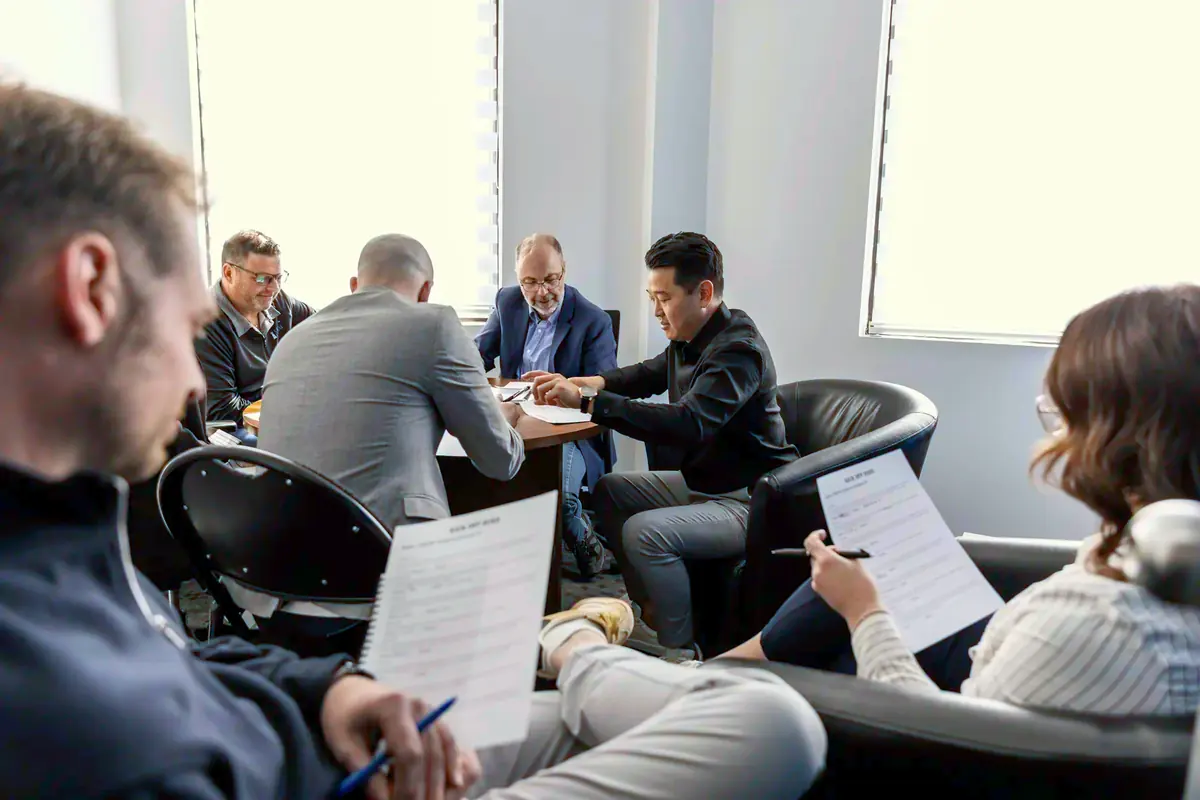
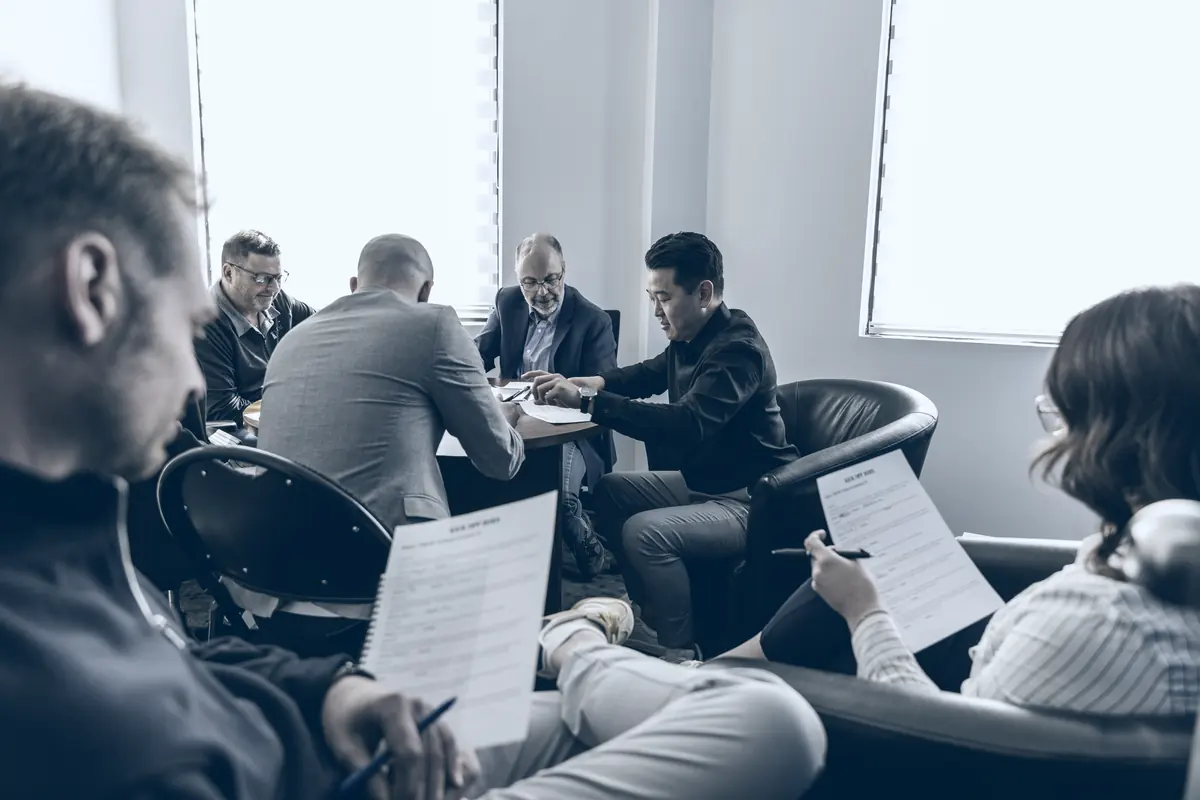
Limit the natural-color photo to the contact section.
The skyline behind the contact title is no longer duotone, and the navy wash is a neutral dark gradient. Every other photo and overlay matches main.

diff --git a/src/style.css b/src/style.css
@@ -139,7 +139,7 @@ h1,h2,h3,p,figure,blockquote{margin:0}
 .inter{position:relative;min-height:115vh;color:var(--white);display:flex;align-items:center;overflow:hidden;background:var(--navy)}
 .inter__media{position:absolute;inset:0}
 .inter__media img{width:100%;height:100%;object-fit:cover}
-.inter__media::after{content:"";position:absolute;inset:0;background:linear-gradient(90deg,rgba(14,16,18,.64) 0%,rgba(14,16,18,.3) 38%,rgba(14,16,18,0) 72%)}
+.inter__media::after{content:"";position:absolute;inset:0;background:linear-gradient(90deg,rgba(0,40,68,.9) 0%,rgba(0,52,89,.55) 55%,rgba(0,52,89,.2) 100%)}
 .inter__content{position:relative;z-index:2;display:flex;flex-direction:column;gap:28px}
 .inter__title{font-size:clamp(44px,7.4vw,140px);line-height:.95;letter-spacing:-.055em;font-weight:500;max-width:9ch}
 .inter__body{font-size:clamp(16px,1.25vw,20px);line-height:1.6;color:rgba(255,255,255,.8);max-width:44ch}

diff --git a/index.html b/index.html
@@ -271,7 +271,7 @@
   <!-- CTA -->
   <section class="cta" id="contact" data-section="dark">
     <div class="cta__media parallax" data-speed="0.18">
-      <img src="%BASE_URL%img/skyline-2400.webp" srcset="%BASE_URL%img/skyline-800.webp 800w, %BASE_URL%img/skyline-1400.webp 1400w, %BASE_URL%img/skyline-2400.webp 2400w" sizes="100vw" alt="" loading="lazy" />
+      <img src="%BASE_URL%img/skyline-2400.webp" alt="" loading="lazy" />
     </div>
     <canvas class="cta__lines" aria-hidden="true"></canvas>
     <div class="wrap cta__wrap">

diff --git a/tools/grade.py b/tools/grade.py
@@ -1,5 +1,4 @@
-# Hero city-night keeps the navy duotone.
-# Lower-page photos (facade, skyline, equipment, team) export in natural color.
+# Brand grading: navy duotone for stock, subtle cool grade for team photos.
 import numpy as np
 from PIL import Image, ImageFilter, ImageEnhance
 import os
@@ -12,6 +11,17 @@ def duotone(img, stops, contrast=1.0, gamma=1.0):
     out=np.zeros(a.shape+(3,),dtype=np.float32)
     for c in range(3): out[...,c]=np.interp(a,pos,cols[:,c])
     return Image.fromarray(out.astype(np.uint8))
+def grade(img, amt=0.55):
+    # desaturate partially and push shadows to navy, lift nothing
+    base=np.asarray(img.convert('RGB'),dtype=np.float32)
+    lum=(base@np.array([.2126,.7152,.0722]))[...,None]
+    des=base*0.3+lum*0.7
+    navy=hexrgb('#003459'); l=lum/255.
+    shadow=(1-l)**2.2
+    out=des*(1-shadow*amt)+navy*shadow*amt
+    out=out*np.array([0.96,0.99,1.03])
+    return Image.fromarray(np.clip(out,0,255).astype(np.uint8))
+NAVY=[(0,'#00111f'),(0.45,'#003459'),(0.8,'#2a86b8'),(1,'#d9eef8')]
 DEEP=[(0,'#000c17'),(0.5,'#002a48'),(0.85,'#0f6d9e'),(1,'#9fd6ee')]
 def save(im,name,widths=(2400,1400,800),q=74):
     for w in widths:
@@ -19,13 +29,13 @@ def save(im,name,widths=(2400,1400,800),q=74):
         r.save(f'{OUT}/{name}-{w}.webp','WEBP',quality=q,method=6)
 S='src-img'
 save(duotone(Image.open(f'{S}/px-15452183.jpg'),DEEP,contrast=1.25,gamma=1.1),'city-night')
-save(Image.open(f'{S}/px-35528879.jpg').convert('RGB'),'facade-v')
-save(Image.open(f'{S}/px-38633406.jpg').convert('RGB'),'skyline')
-save(Image.open(f'{S}/px-36522027.jpg').convert('RGB'),'equipment')
+save(duotone(Image.open(f'{S}/px-35528879.jpg'),NAVY,contrast=1.15),'facade-v')
+save(duotone(Image.open(f'{S}/px-38633406.jpg'),DEEP,contrast=1.1,gamma=1.2),'skyline')
+save(duotone(Image.open(f'{S}/px-36522027.jpg'),NAVY,contrast=1.2,gamma=1.05),'equipment')
 for n in (1,2,3,4):
-    im=Image.open(f'../uploads/versa-photo-{n}.jpg').convert('RGB')
-    save(im,f'team-{n}g',widths=(2000,1200,700),q=76)
-    save(im,f'team-{n}d',widths=(1400,800),q=74)
+    im=Image.open(f'../uploads/versa-photo-{n}.jpg')
+    save(grade(im),f'team-{n}g',widths=(2000,1200,700),q=76)
+    save(duotone(im,DEEP,contrast=1.25,gamma=1.15),f'team-{n}d',widths=(1400,800),q=74)
 print('ok')
 # hero v2: more contrast, luminous windows
 HERO=[(0,'#000a14'),(0.35,'#00223d'),(0.62,'#0a4f80'),(0.85,'#3fa9dc'),(1,'#eaf7ff')]

diff --git a/CREDITS.md b/CREDITS.md
@@ -1,9 +1,9 @@
 # Credits and image sources
 
-The hero photograph (city-night) is graded to the Versa navy palette with tools/grade.py. Photographs in the lower part of the page (facade, skyline, equipment, and team photos) are exported in their natural colors. WebP files live in public/img/.
+All stock images were graded to the Versa navy/cyan palette (duotone) with tools/grade.py and exported as WebP in public/img/.
 
 ## Team photography (client supplied)
-- versa-photo-1.jpg to versa-photo-4.jpg, supplied by Versa Capital (/workspace/versa/uploads). Used as team-1..4. The "g" and "d" files are the same natural-color photo at different sizes. The "d" sizes are the service-card crops. The original JPEGs are not in this repo, so the shipped team files were recovered by inverting the previous cool grade.
+- versa-photo-1.jpg to versa-photo-4.jpg, supplied by Versa Capital (/workspace/versa/uploads). Used as team-1..4 (subtle grade "g", duotone "d").
 
 ## Stock photography (Pexels License, free to use, attribution not required but given here)
 - city-night: "Skyscrapers at Night" (downtown Montreal) by Julia Barrantes. https://www.pexels.com/photo/skyscrapers-at-night-15452183/
